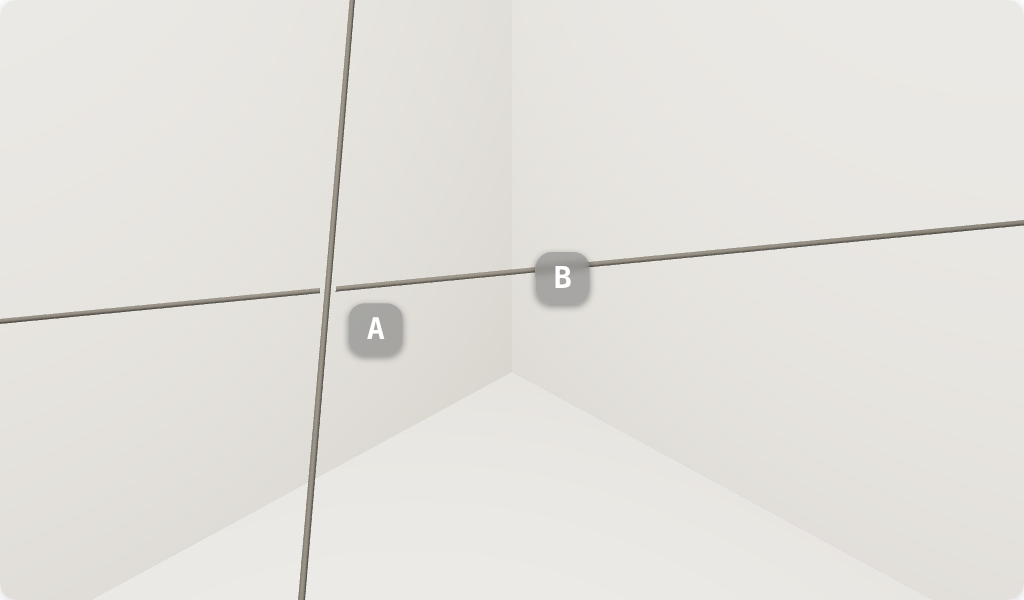
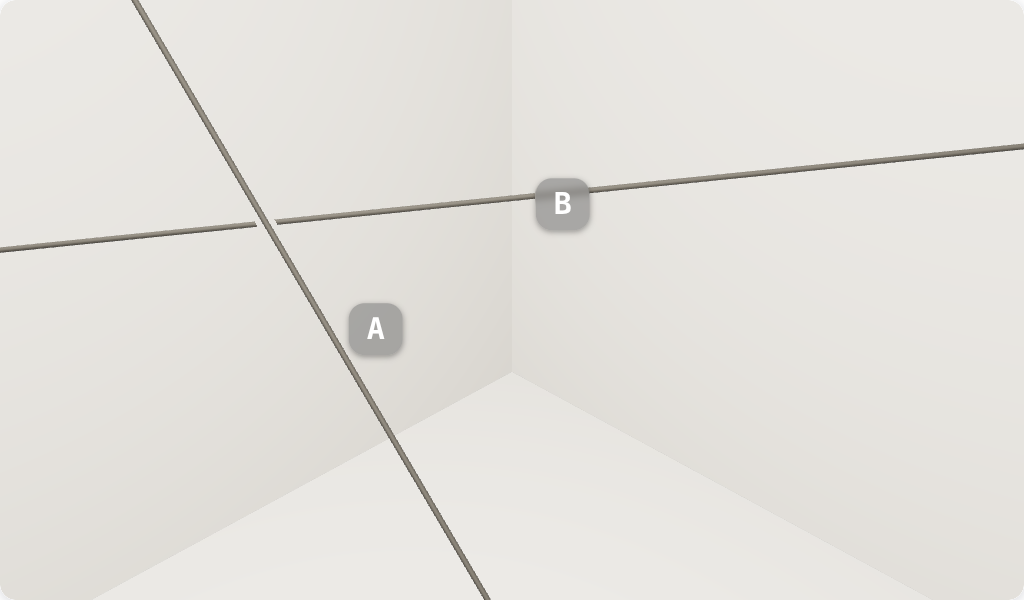
show the two phase 1 question kinds with pictures and say question, not trial

diff --git a/src/pages/StudyPhase1Page.jsx b/src/pages/StudyPhase1Page.jsx
@@ -321,7 +321,7 @@ function Phase1Session({ participantCode, sequence, stimulusSets, session }) {
             <p>
               {state.trialIndex > 0
                 ? 'Pick up where you left off.'
-                : 'The first trials are practice, with feedback.'}
+                : 'The first two questions are practice, with feedback.'}
             </p>
             <Button
               className="h-[42px] px-5 text-[16px]"
@@ -390,7 +390,9 @@ function Phase1Session({ participantCode, sequence, stimulusSets, session }) {
             sphere-sphere distance question), so the buttons below never move
             when the question changes length. */}
         <p className="min-h-[9em] text-[17px] leading-normal font-medium whitespace-pre-line">
-          {question ? questionPrompt(trialScene.stimulus) : 'The question appears here each trial.'}
+          {question
+            ? questionPrompt(trialScene.stimulus)
+            : 'Each question appears here. The buttons below switch on when the questions start.'}
         </p>
         <div className="flex flex-col gap-3">
           {['A', 'B'].map((choice) => (
@@ -419,7 +421,7 @@ function Phase1Session({ participantCode, sequence, stimulusSets, session }) {
           <p className="text-[14px] text-muted-foreground">
             Block {state.blockIndex + 1} of {blockCount}
             {trial && state.status !== FLOW.BLOCK_INTRO
-              ? ` · Trial ${Math.min(state.trialIndex + 1, trialCount)} of ${trialCount}${trial.practice ? ' (practice)' : ''}`
+              ? ` · Question ${Math.min(state.trialIndex + 1, trialCount)} of ${trialCount}${trial.practice ? ' (practice)' : ''}`
               : ''}
           </p>
         )}
@@ -487,21 +489,39 @@ function Overlay({ children, width = 'max-w-[720px]', fillWindow = false }) {
   )
 }
 
-// The cue pictures come from /study/showcase?cue=... (scripts/surveyScreenshots.mjs).
-const CUE_FIGURES = [
+// The pictures come from /study/showcase?cue=... (scripts/surveyScreenshots.mjs).
+const CUE_LEAD = 'The drawing style changes between blocks. Some add one of these markings.'
+const INTRO_FIGURES = [
   {
+    src: '/study/cue-overlap.png',
+    alt: 'Line A and line B crossing each other on screen.',
+    title: 'When A and B overlap',
+    lead: 'The first kind of question.',
+    text: 'You are asked which one is in front at the place where they overlap on screen.',
+  },
+  {
+    src: '/study/cue-band.png',
+    alt: 'Line A above line B, not crossing, with a shaded vertical band over part of the scene.',
+    title: 'When A and B do not overlap',
+    lead: 'The second kind of question.',
+    text: 'A shaded band marks part of the screen. You are asked which one is closer to you inside the band, so ignore the rest of each object. "You" means the camera, which looks down from well above the grid, so height counts too: an object higher up can be closer to you than a lower one that looks nearer the front.',
+  },
+  {
+    lead: CUE_LEAD,
     src: '/study/cue-halo.png',
     alt: 'Line B has a small gap on either side of line A where A passes in front of it.',
     title: 'Halo',
     text: 'Where one line passes in front of another, the line behind is cut away on either side of it. Here B is broken where A crosses it, so A is in front.',
   },
   {
+    lead: CUE_LEAD,
     src: '/study/cue-accent.png',
     alt: 'Line A is drawn dashed where it runs through a cube.',
     title: 'Collision accent',
     text: 'Where a line passes through a solid object, the part inside the object is drawn dashed. Here line A runs through the cube.',
   },
   {
+    lead: CUE_LEAD,
     src: '/study/cue-rings.png',
     alt: 'Line A drawn with alternating dark and grey rings.',
     title: 'Ringed tubes',
@@ -529,38 +549,28 @@ function Intro({ blockCount, canStart, onStart }) {
   if (page === 0) {
     return (
       <Overlay>
-        <h1 className="text-[28px] font-semibold tracking-tight">Which one is closer to you?</h1>
+        <h1 className="text-[28px] font-semibold tracking-tight">What you will be asked</h1>
+        <p>First, you will answer questions that test different ways of drawing a 3D scene.</p>
         <p>
           Each scene shows several objects. Two of them are labelled <strong>A</strong> and{' '}
-          <strong>B</strong>, and the question names them by kind, such as &ldquo;Line A&rdquo; or
-          &ldquo;Sphere B&rdquo;. <strong>A</strong> and <strong>B</strong> never touch each other,
-          though either of them may pass through the other objects around them.
+          <strong>B</strong>. They never touch each other, though either may pass through the other
+          objects around them.
         </p>
         <p>
-          When <strong>A</strong> and <strong>B</strong> overlap on the screen, you are asked which
-          one is <strong>in front</strong> where they overlap. When they do not overlap, a shaded
-          vertical band marks part of the screen, and you are asked which one is{' '}
-          <strong>closer to you</strong> inside that band. A line runs on for ever, so the question
-          is only ever about that one place.
-        </p>
-        <p>
-          <strong>Closer to you</strong> means closer to the camera you are looking through. The
-          camera sits well above the grid, looking down at it, so height counts too: an object
-          higher up can be closer to you than one lower down that looks nearer the front.
+          There are two kinds of question about <strong>A</strong> and <strong>B</strong>, depending
+          on whether they overlap on screen. The next two pages show one of each.
         </p>
         <div className="flex gap-3">{next}</div>
       </Overlay>
     )
   }
 
-  const figure = CUE_FIGURES[page - 1]
+  const figure = INTRO_FIGURES[page - 1]
   if (figure) {
     return (
       <Overlay>
         <h2 className="text-[23px] font-semibold">{figure.title}</h2>
-        <p>
-          The way the scene is drawn changes between blocks. Some blocks add one of these markings.
-        </p>
+        <p>{figure.lead}</p>
         {/* At its rendered size (px, not rem), so the marking is as large as in a trial. */}
         <img
           src={figure.src}
@@ -572,7 +582,7 @@ function Intro({ blockCount, canStart, onStart }) {
         {/* Every caption shares one grid cell, so the box is as tall as the longest
             and the image and buttons stay put from page to page. */}
         <div className="grid">
-          {CUE_FIGURES.map((f) => (
+          {INTRO_FIGURES.map((f) => (
             <p
               key={f.src}
               aria-hidden={f !== figure}
@@ -599,12 +609,12 @@ function Intro({ blockCount, canStart, onStart }) {
         does nothing.
       </p>
       <p>
-        In many trials the answer will not be obvious. That is expected: if you are not sure, go
+        In many questions the answer will not be obvious. That is expected: if you are not sure, go
         with your best guess.
       </p>
       <p>
-        There are {blockCount} blocks. The first two trials of each block are practice and tell you
-        whether you were right.
+        There are {blockCount} blocks. The first two questions of each block are practice and tell
+        you whether you were right.
       </p>
       <div className="flex gap-3">
         {back}

diff --git a/src/pages/SurveyShowcasePage.jsx b/src/pages/SurveyShowcasePage.jsx
@@ -12,7 +12,8 @@ import './StudyPhase1Page.css'
 // every Phase 1 cue shows at once, for the questionnaire screenshots
 // (scripts/surveyScreenshots.mjs). ?t=T1..T10 picks a Phase 1 technique;
 // ?c=C1 / C2 a holistic configuration (baseline / perception-driven).
-// ?cue=halo / accent is a close-up of one cue, for the Phase 1 intro pages
+// ?cue=halo / accent / rings is a close-up of one cue, and ?cue=overlap / band
+// an example of each question, for the Phase 1 intro pages
 // (public/study/cue-*.png).
 
 // The camera looks at the room's centre, but the near floor corner projects
@@ -48,18 +49,53 @@ const SHOWCASE = {
 const CUE_CANVAS = { width: 512, height: 300 }
 const CUE_CAMERA_DISTANCE = 16
 
+// The crossing sits well away from where the labels settle, so neither label
+// can be read as belonging to the other line.
+const CROSSING_LINES = [
+  { key: 'B', role: 'target', kind: 'line', origin: [-2, 1.8, 0.5], direction: [1, 0.15, -1] },
+  { key: 'A', role: 'target', kind: 'line', origin: [-2, 0, 3.5], direction: [-1, 1.4, 0.2] },
+]
+
 const CUE_VIEWS = {
+  overlap: {
+    technique: 'T1',
+    label: 'Overlap question',
+    scene: { id: 'survey-cue-overlap', colourSalt: 0, objects: CROSSING_LINES },
+  },
+  band: {
+    technique: 'T1',
+    label: 'Band question',
+    // Percentages of the stage width, as probeBandStyle gives a trial. To the
+    // right, clear of the labels.
+    band: { left: '68%', width: '10%' },
+    scene: {
+      id: 'survey-cue-band',
+      colourSalt: 0,
+      objects: [
+        {
+          key: 'A',
+          role: 'target',
+          kind: 'line',
+          origin: [-2, 1.8, 0.5],
+          direction: [1, 0.15, -1],
+        },
+        {
+          key: 'B',
+          role: 'target',
+          kind: 'line',
+          origin: [-2, -1.2, 3.5],
+          direction: [1, -0.1, -1],
+        },
+      ],
+    },
+  },
   halo: {
     technique: 'T5',
     label: 'Halo',
     scene: {
       id: 'survey-cue-halo',
       colourSalt: 0,
-      objects: [
-        // Off the view's centre, where the labels settle, so they stay clear of the crossing.
-        { key: 'B', role: 'target', kind: 'line', origin: [-2, 0, 0.5], direction: [1, 0.15, -1] },
-        { key: 'A', role: 'target', kind: 'line', origin: [-2, 0, 3.5], direction: [-1, 1.4, -1] },
-      ],
+      objects: CROSSING_LINES,
     },
   },
   accent: {
@@ -114,6 +150,7 @@ function resolveView(t, c, cue) {
       label: cueView.label,
       settings: { ...getTechnique(cueView.technique).settings, showAxes: false, showGrid: false },
       scene: cueView.scene,
+      band: cueView.band,
       canvas: CUE_CANVAS,
       crop: { top: 0, height: CUE_CANVAS.height },
       cameraPosition: positionFromOrbit({
@@ -186,6 +223,7 @@ export default function SurveyShowcasePage() {
             cameraPosition={view.cameraPosition}
           />
         </div>
+        {view.band && <div className="study-phase1__band" style={view.band} aria-hidden="true" />}
       </div>
     </div>
   )

diff --git a/docs/architecture/study-phase1.md b/docs/architecture/study-phase1.md
@@ -304,14 +304,21 @@ order without feedback, and a block-end screen (placeholder for the per-block
 Qualtrics questionnaire). Each trial starts with a 500 ms fixation cross; the
 scene is built during it, so build cost never falls inside a reaction time.
 
-The intro is five pages inside the one `intro` state (local page state in
-`StudyPhase1Page`): the task, then one page each for halos, collision accents
-and ringed tubes (one dark + one grey ring is one unit), then the answering
-instructions and Start. Every participant sees the
+The intro is seven pages inside the one `intro` state (local page state in
+`StudyPhase1Page`): what the block tests and that there are two kinds of
+question, one pictured example of each (overlap, then the shaded band), then one page each for halos,
+collision accents and ringed tubes (one dark + one grey ring is one unit), then
+the answering instructions and Start. The two example pages replaced a
+text-only explanation on 2026-10-10, after supervisor feedback that it was
+hard to follow; the same change made participant-facing text say "question"
+where it said "trial", which read as "trial run". The first two cohort1
+participants saw the earlier wording. Every participant sees the
 cue explanations before block 1, whatever their order, so when a participant
 learns what a cue means never varies with the Williams row. The pictures are
-`public/study/cue-*.png`, rendered from `/study/showcase?cue=halo|accent|rings`
-under T5 / T4 / T3 (the rings view from closer, so each ring is countable) with the trial's own settings (`scripts/surveyScreenshots.mjs`), and
+`public/study/cue-*.png`, rendered from
+`/study/showcase?cue=overlap|band|halo|accent|rings` under T1 / T1 / T5 / T4 /
+T3 (the rings view from closer, so each ring is countable) with the trial's own
+settings (`scripts/surveyScreenshots.mjs`), and
 shown at their rendered 512 px so the marking is the size it is in a trial.
 
 A cursor (`geoscratch:phase1-progress:<code>`) is saved after every step. A
